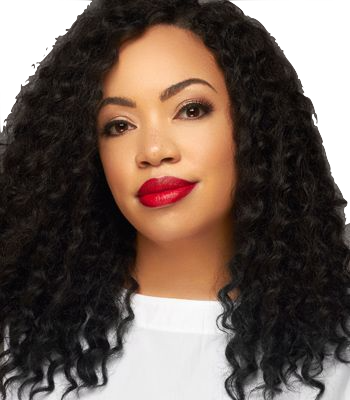
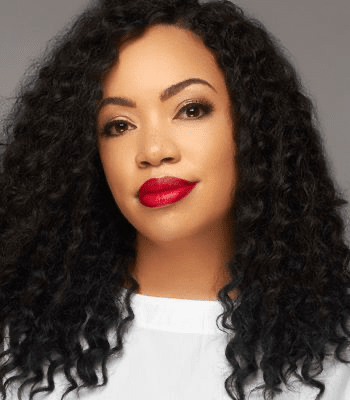
Style author pages and compress images

Changed region(s): [[0.6571, 0.0, 1.0, 0.57], [0.0, 0.0, 0.2571, 0.33]]

diff --git a/src/components/Authors.vue b/src/components/Authors.vue
@@ -1,6 +1,6 @@
 <template>
   <div class="author-list">
-    <h4>Authors Read</h4>
+    <h2>Authors Read</h2>
     <ul class="authors">
       <li class="author" v-for="(author, index) in sortedAuthors" :key="index">
         <div class="author-img-wrapper">
@@ -68,99 +68,101 @@ export default {
 <style lang="scss" scoped>
 @import "@/assets/styles/varibles.scss";
 
-.authors {
-  list-style: none;
-  padding: 0;
-  display: flex;
-  flex-wrap: wrap;
-  justify-content: center;
-  .author {
-    border: 5px solid $black;
+.author-list {
+  padding: 20px;
+  .authors {
+    list-style: none;
+    padding: 0;
     display: flex;
-    margin: 10px;
-    // flex-grow: 1;
-    .author-img-wrapper {
-      height: 200px;
-      width: 200px;
-      border-right: 5px solid $black;
-      overflow: hidden;
-      position: relative;
-      .author-img {
-        width: 100%;
-        min-height: 200px;
-      }
-      .author-name {
-        position: absolute;
-        bottom: 0;
-        background-color: rgba(255, 255, 255, 0.6);
-        left: 0;
-        width: 100%;
-        text-align: center;
-        padding: 5px;
-        color: black;
-        text-decoration: none;
-        font-size: 15px;
-      }
-      .author-info {
-        position: absolute;
-        top: 5px;
-        left: 5px;
-        width: 40px;
-        text-align: center;
-        span {
-          display: block;
-        }
-        .book-number {
-          background-color: white;
-          border-radius: 50%;
-          height: 40px;
-          display: flex;
-          align-items: center;
-          justify-content: center;
-          border: 4px solid $black;
-          font-weight: bold;
-          font-size: 22px;
-          color: $black;
-        }
-        .lgbt {
-          margin-top: 10px;
-          height: 40px;
-        }
-        .flag {
-          font-size: 40px;
-        }
-      }
-    }
-    .author-books {
+    flex-wrap: wrap;
+    justify-content: center;
+    .author {
+      border: 5px solid $black;
       display: flex;
-      align-items: center;
-      padding: 10px 20px 10px 10px;
-      margin: auto;
+      margin: 10px;
+      // flex-grow: 1;
+      .author-img-wrapper {
+        height: 200px;
+        width: 200px;
+        border-right: 5px solid $black;
+        overflow: hidden;
+        position: relative;
+        .author-img {
+          width: 100%;
+        }
+        .author-name {
+          position: absolute;
+          bottom: 0;
+          background-color: rgba(255, 255, 255, 0.6);
+          left: 0;
+          width: 100%;
+          text-align: center;
+          padding: 5px;
+          color: black;
+          text-decoration: none;
+          font-size: 15px;
+        }
+        .author-info {
+          position: absolute;
+          top: 5px;
+          left: 5px;
+          width: 40px;
+          text-align: center;
+          span {
+            display: block;
+          }
+          .book-number {
+            background-color: white;
+            border-radius: 50%;
+            height: 40px;
+            display: flex;
+            align-items: center;
+            justify-content: center;
+            border: 4px solid $black;
+            font-weight: bold;
+            font-size: 22px;
+            color: $black;
+          }
+          .lgbt {
+            margin-top: 10px;
+            height: 40px;
+          }
+          .flag {
+            font-size: 40px;
+          }
+        }
+      }
+      .author-books {
+        display: flex;
+        align-items: center;
+        padding: 10px 20px 10px 10px;
+        margin: auto;
+        .author-book-img {
+          height: 150px;
+        }
+      }
+    }
+    .author:nth-child(1n) .author-img-wrapper {
+      background-color: $purple;
+    }
+
+    .author:nth-child(2n) .author-img-wrapper {
+      background-color: $red;
+    }
+    .author:nth-child(3n) .author-img-wrapper {
+      background-color: $orange;
+    }
+
+    .author:nth-child(4n) .author-img-wrapper {
+      background-color: $blue;
+    }
+
+    .author:nth-child(5n) .author-img-wrapper {
+      background-color: $green;
+    }
+    .author:nth-child(6n) .author-img-wrapper {
+      background-color: $yellow;
     }
   }
-  .author:nth-child(1n) .author-img-wrapper {
-    background-color: $purple;
-  }
-
-  .author:nth-child(2n) .author-img-wrapper {
-    background-color: $red;
-  }
-  .author:nth-child(3n) .author-img-wrapper {
-    background-color: $orange;
-  }
-
-  .author:nth-child(4n) .author-img-wrapper {
-    background-color: $blue;
-  }
-
-  .author:nth-child(5n) .author-img-wrapper {
-    background-color: $green;
-  }
-  .author:nth-child(6n) .author-img-wrapper {
-    background-color: $yellow;
-  }
-}
-.author-book-img {
-  height: 150px;
 }
 </style>

diff --git a/src/components/Statistics/OverallAuthorStatistics.vue b/src/components/Statistics/OverallAuthorStatistics.vue
@@ -1,6 +1,6 @@
 <template>
   <div class="statistics-container">
-    <h1>Author Statistics</h1>
+    <h2>Author Statistics</h2>
     <div class="statistics">
       <div class="stat">
         <p class="stat-number">{{ authorInfo.length }}</p>
@@ -59,8 +59,8 @@
       </div>
     </div>
     <div class="country-stats">
+      <h2>Author Countries</h2>
       <ul>
-        Author Countries
         <li
           v-for="(countryAmount, countryCode) in countArray(authorCountries)"
           :key="countryCode"
@@ -109,28 +109,88 @@ export default {
 <style lang="scss" scoped>
 @import "@/assets/styles/varibles.scss";
 
+.statistics-container {
+  background-color: $black;
+  padding: 20px;
+  h2 {
+    color: #fae6e9;
+    margin: 0;
+    margin-bottom: 20px;
+  }
+  .statistics {
+    display: flex;
+    justify-content: center;
+    flex-wrap: wrap;
+    margin-bottom: 20px;
+    .stat {
+      background-color: #fae6e9;
+      text-align: center;
+      margin: 10px;
+      border: 2px solid #fae6e9;
+      -webkit-box-shadow: 5px 5px 0 #fae6e9;
+      box-shadow: 9px 9px 0 #fae6e9;
+      border-radius: 7px;
+      color: $black;
+      outline: 3px solid $black;
+      position: relative;
+      .stat-number {
+        font-size: 50px;
+        font-weight: bold;
+        margin: 0;
+        padding: 10px 20px 0 20px;
+      }
+      .stat-title {
+        margin: 0;
+        padding: 0 20px 30px 20px;
+      }
+      .stat-percent {
+        margin: 0;
+        background-color: $black;
+        color: #fae6e9;
+        position: absolute;
+        padding: 10px;
+        bottom: -40px;
+        right: 5px;
+        height: 65px;
+        width: 65px;
+        text-align: center;
+        display: flex;
+        align-items: center;
+        justify-content: center;
+        border-radius: 50%;
+        border: 2px solid #fae6e9;
+      }
+    }
+  }
+}
+
 .country-stats {
   ul {
     list-style: none;
     padding: 0;
   }
-  li {
+  .author-stat-flags {
     display: inline-block;
+    background-color: #fae6e9;
+    text-align: center;
+    margin: 10px;
+    border-radius: 7px;
+    color: $black;
+    position: relative;
     padding: 10px;
-    border: 3px solid $black;
-    margin: 5px;
-  }
-  p {
-    display: inline-block;
-    margin-bottom: 0;
-    margin-top: 0;
-  }
-  .author-stat-flag {
-    font-size: 40px;
-    margin-right: 10px;
-  }
-  .author-stat-flag-amount {
-    font-size: 30px;
+    p {
+      display: inline-block;
+      margin-bottom: 0;
+      margin-top: 0;
+    }
+    .author-stat-flag {
+      font-size: 50px;
+      margin-right: 15px;
+    }
+    .author-stat-flag-amount {
+      font-size: 40px;
+      font-weight: bold;
+    }
   }
 }
 </style>
